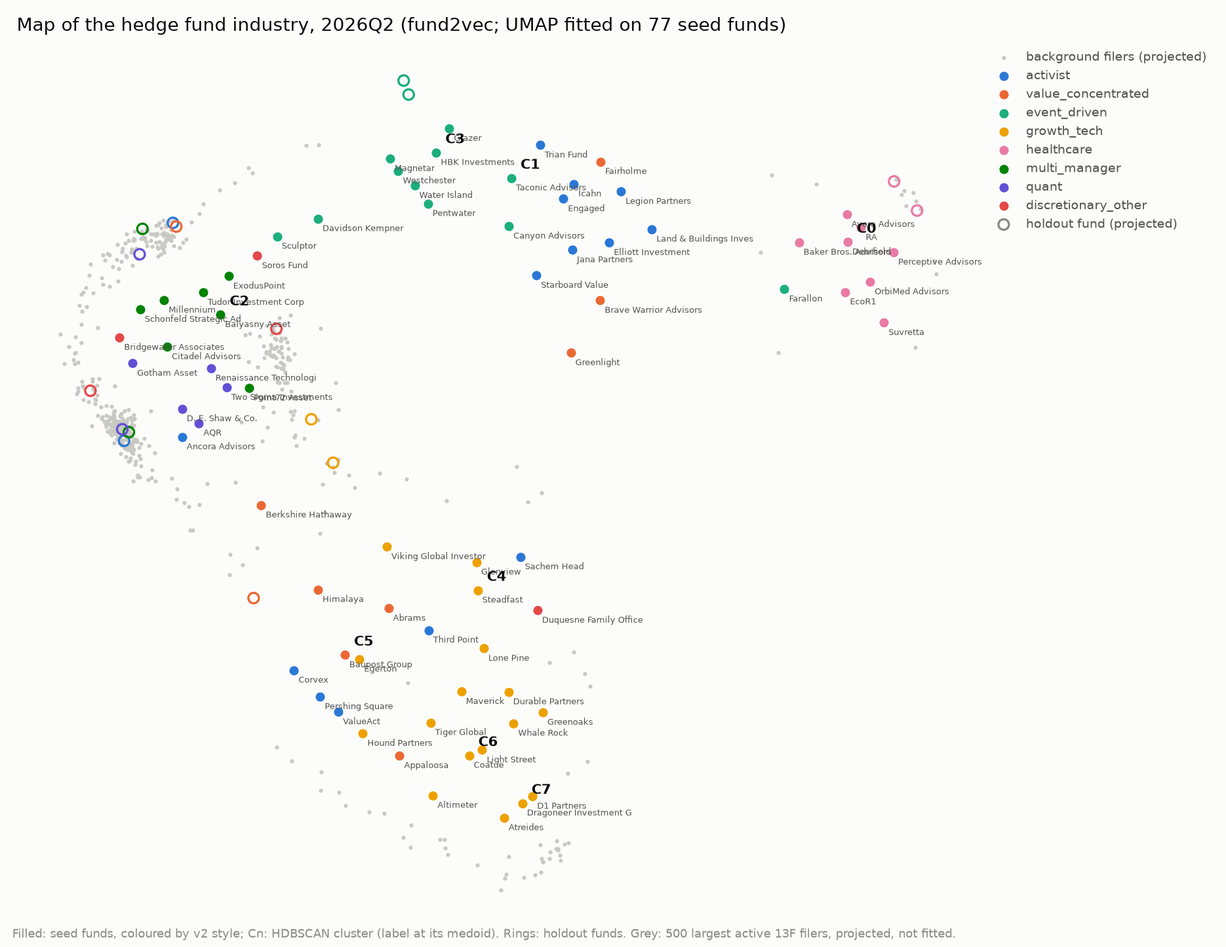
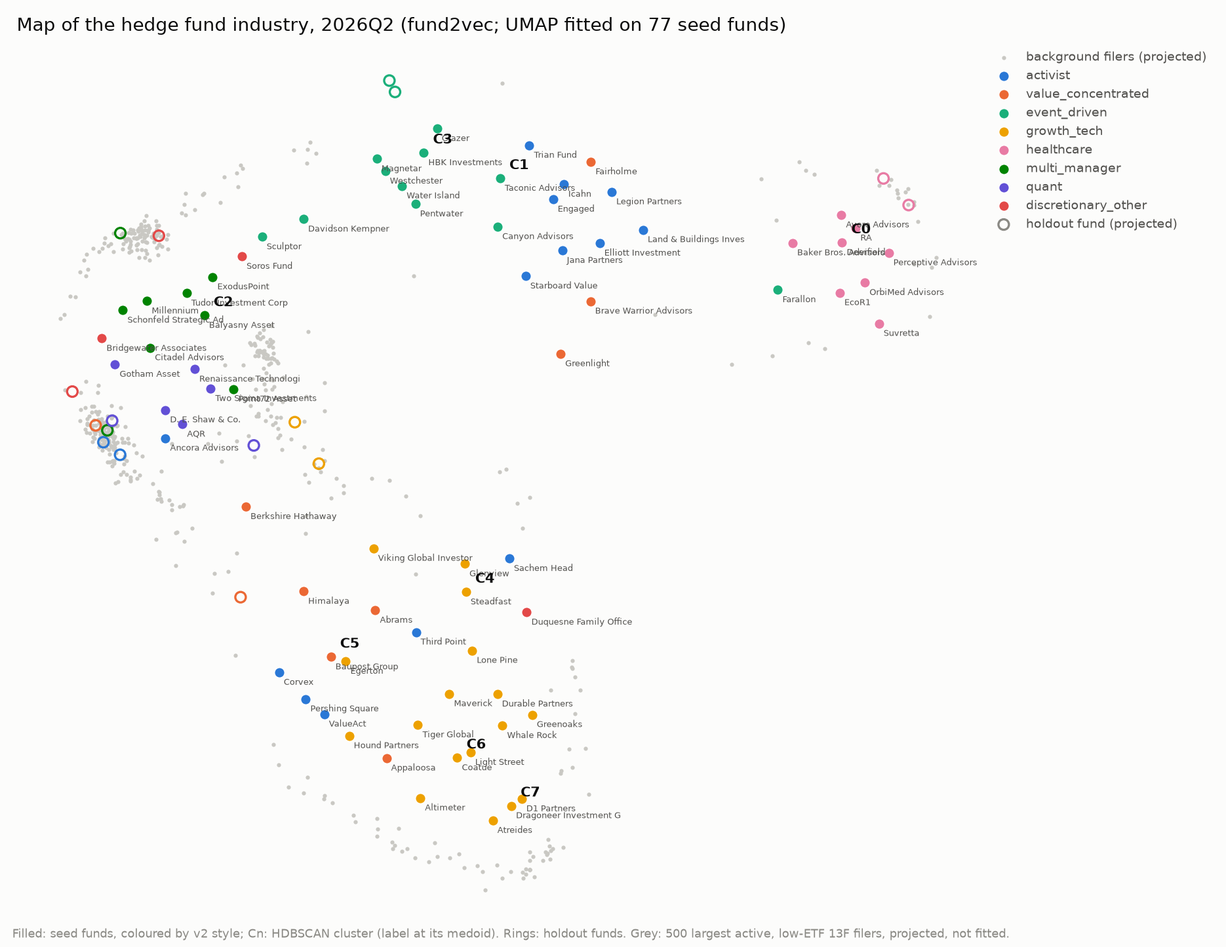
Milestone 5 follow-up: ETF-share cap on background filers, crowding-floor sensitivity
- background screen also requires <= 25% of the book in ETFs/funds (seed funds'
  90th-95th percentile); map redrawn, seed clusters unchanged
- crowding results at 0.5% / 1% / 2% conviction floors (1% stays the main one)
- tests for the cap and the floor; decisions log

diff --git a/src/models/crowding.py b/src/models/crowding.py
@@ -44,7 +44,10 @@ next filing) for positions in its own cluster's crowded names vs its other
 positions of at least the same CROWD_MIN_WEIGHT (big positions behave differently
 from small ones, so both groups are big).
 
-Writes `crowding_stocks`, `crowding_clusters`, `cluster_overlap`, figures 16-17,
+Sensitivity: the episode results are recomputed with the conviction floor at
+each of SENSITIVITY_FLOORS (the 1% floor stays the main one).
+
+Writes `crowding_stocks`, `crowding_clusters`, `cluster_overlap`, `crowding_sensitivity`, figures 16-17,
 docs/crowding.md.
 """
 
@@ -69,6 +72,7 @@ EPISODES = {
 }
 CROWD_MIN, CROWD_SHARE = 3, 0.5
 CROWD_MIN_WEIGHT = 0.01
+SENSITIVITY_FLOORS = [0.005, 0.01, 0.02]
 REPORT = Path("docs/crowding.md")
 CROWDED, WIDE, FEW = "crowded in a cluster", "widely held, not crowded", "0-2 conviction holders"
 
@@ -89,10 +93,11 @@ def seed_books(books: pl.DataFrame, quarter: str, funds: list[str]) -> pl.DataFr
 
 # --- per stock -----------------------------------------------------------------------
 
-def crowding_measures(book: pl.DataFrame, clusters: dict[str, int]) -> pl.DataFrame:
+def crowding_measures(book: pl.DataFrame, clusters: dict[str, int],
+                      min_weight: float = CROWD_MIN_WEIGHT) -> pl.DataFrame:
     """issuer_key -> n_holders, max_cluster_n, top_cluster, cluster_pairs, crowded."""
     size = pl.DataFrame({"cluster": list(clusters.values())}).group_by("cluster").len("cluster_size")
-    b = (book.filter(pl.col("w") >= CROWD_MIN_WEIGHT)
+    b = (book.filter(pl.col("w") >= min_weight)
          .with_columns(pl.col("fund_id").replace_strict(clusters, return_dtype=pl.Int64).alias("cluster")))
     per = (b.filter(pl.col("cluster") >= 0).group_by("issuer_key", "cluster").agg(pl.col("fund_id").n_unique().alias("n_c"))
            .join(size, on="cluster")
@@ -162,6 +167,19 @@ def regression(df: pl.DataFrame) -> pl.DataFrame:
     b, t, r2 = ols_newey_west(d["ret"].to_numpy(), X, lags=0)
     return pl.DataFrame({"term": ["intercept", *names], "coef": b, "t": t}).with_columns(
         pl.lit(d.height).alias("n"), pl.lit(r2).alias("r2"))
+
+
+def sensitivity_row(ep: str, floor: float, book: pl.DataFrame, clusters: dict[str, int],
+                    rets: pl.DataFrame) -> dict:
+    st = size_adjust(rets.join(crowding_measures(book, clusters, floor), on="issuer_key", how="inner").drop_nulls("ret"))
+    crowded = st.filter(pl.col("crowded"))
+    reg = regression(st)
+    coef = reg.filter(pl.col("term") == "crowded")
+    return {"episode": ep, "floor": f"{floor:.1%}", "n_crowded": crowded.height,
+            "n_widely_held": st.filter(pl.col("bucket") == WIDE).height,
+            "crowded_mean_ret": crowded["ret"].mean(), "crowded_mean_ret_adj": crowded["ret_adj"].mean(),
+            "crowded_median_ret_adj": crowded["ret_adj"].median(),
+            "reg_crowded": coef["coef"][0], "t_crowded": coef["t"][0]}
 
 
 # --- overlap -------------------------------------------------------------------------
@@ -304,12 +322,13 @@ def main() -> None:
     names = dict(con.execute("SELECT fund_id, any_value(fund_name) FROM positions GROUP BY 1").fetchall())
     names |= emb.issuer_names(con)
 
-    stock_rows, cluster_rows, sections, per_cluster = [], [], [], {}
+    stock_rows, cluster_rows, sections, per_cluster, sens = [], [], [], {}, []
     for ep, cfg in EPISODES.items():
         c = clusters_at(con, method, cfg["book"])
         book = seed_books(books, cfg["book"], list(c))
-        cm = crowding_measures(book, c)
         rets = episode_returns(con, cfg["book"], cfg["ret_quarters"])
+        sens += [sensitivity_row(ep, f, book, c, rets) for f in SENSITIVITY_FLOORS]
+        cm = crowding_measures(book, c)
         st = size_adjust(rets.join(cm, on="issuer_key", how="inner").drop_nulls("ret"))
         pc = cluster_episode(book, c, st, names)
         per_cluster[ep] = pc
@@ -349,9 +368,12 @@ Members: {"; ".join(f"**{r['cluster']}** {r['funds']}" for r in pc.iter_rows(nam
 """)
         print(ep, buckets, reg, ex, sep="\n")
 
+    sens = pl.DataFrame(sens)
+    print(sens)
     ov = overlap_by_quarter(con, books, method)
     stocks, clusters_df = pl.concat(stock_rows, how="diagonal"), pl.concat(cluster_rows)
-    for name, df in [("crowding_stocks", stocks), ("crowding_clusters", clusters_df), ("cluster_overlap", ov)]:
+    for name, df in [("crowding_stocks", stocks), ("crowding_clusters", clusters_df), ("cluster_overlap", ov),
+                     ("crowding_sensitivity", sens)]:
         con.register("df", df.to_arrow())
         con.execute(f"CREATE OR REPLACE TABLE {name} AS SELECT * FROM df")
         con.unregister("df")
@@ -368,6 +390,10 @@ start at the book's quarter end; `ret_adj` subtracts the median return of the
 stock's size quintile.
 
 ![episodes](figures/16_crowding_episodes.png)
+
+## Sensitivity to the conviction floor (main: {CROWD_MIN_WEIGHT:.0%})
+
+{cl.md(sens)}
 
 ## Overlap through time
 

diff --git a/src/features/embeddings.py b/src/features/embeddings.py
@@ -37,8 +37,13 @@ only q-1's (already aligned) frame.
 Background: for 2025Q3+ the SEC bulk data has every filer. The BACKGROUND_N
 largest long books with active share >= BG_MIN_ACTIVE_SHARE (vs the seed
 benchmark; the seed funds' 10th percentile is ~0.71) are projected for the map.
-The active-share screen removes the banks, index and wealth managers that top a
-pure size ranking.
+The active-share screen removes the banks and index managers that top a pure
+size ranking. It does not remove wealth platforms: their ETFs and funds aren't in
+the stock benchmark, so an ETF-heavy book looks "active". A second screen drops
+books with more than BG_MAX_ETF_SHARE in ETFs, closed-end and mutual funds
+(`security_master.security_type2 = 'Mutual Fund'`). Seed funds hold ETFs too,
+mostly as hedges (2025Q3+: median 3%, 90th percentile 21%, 95th 27%), so the cap
+sits inside the seed range rather than at zero.
 
 Writes `fund_embeddings`, `nmf_themes`, `embedding_drift`.
 """
@@ -63,6 +68,7 @@ ASOF_DAYS = 60
 BACKGROUND_N = 500
 BG_MIN_ACTIVE_SHARE = 0.7
 BG_MIN_LONG_VALUE = 1e8
+BG_MAX_ETF_SHARE = 0.25
 BG_FIRST_QUARTER = "2025Q3"
 SEED = 0
 
@@ -116,15 +122,18 @@ def background_books(con) -> pl.DataFrame:
         keymap AS (SELECT cusip, any_value({ISSUER_KEY}) AS issuer_key FROM positions GROUP BY cusip),
         h AS (
             SELECT o.cik, any_value(o.quarter) AS quarter, any_value(o.known_at) AS known_at,
-                   coalesce(k.issuer_key, h.cusip) AS issuer_key, sum(h.value_usd) AS v
+                   coalesce(k.issuer_key, h.cusip) AS issuer_key, sum(h.value_usd) AS v,
+                   coalesce(sum(h.value_usd) FILTER (WHERE m.security_type2 = 'Mutual Fund'), 0) AS v_fund
             FROM orig o JOIN filings_db.holdings h USING (accession_number)
             LEFT JOIN keymap k ON k.cusip = h.cusip
+            LEFT JOIN security_master m ON m.cusip = h.cusip
             WHERE o.rk = 1 AND (h.put_call IS NULL OR h.put_call = '') AND h.value_usd > 0
               AND o.cik NOT IN (SELECT cik FROM own)
             GROUP BY o.cik, o.quarter, coalesce(k.issuer_key, h.cusip)
         )
-        SELECT *, v / sum(v) OVER (PARTITION BY cik, quarter) AS w,
-               sum(v) OVER (PARTITION BY cik, quarter) AS long_value
+        SELECT * EXCLUDE (v_fund), v / sum(v) OVER (PARTITION BY cik, quarter) AS w,
+               sum(v) OVER (PARTITION BY cik, quarter) AS long_value,
+               sum(v_fund) OVER (PARTITION BY cik, quarter) / sum(v) OVER (PARTITION BY cik, quarter) AS etf_share
         FROM h
     """)
     return con.execute(f"""
@@ -142,8 +151,9 @@ def background_books(con) -> pl.DataFrame:
         pick AS (
             SELECT a.cik, a.quarter, a.active_share,
                    row_number() OVER (PARTITION BY a.quarter ORDER BY v.long_value DESC) AS rk
-            FROM act a JOIN (SELECT DISTINCT cik, quarter, long_value FROM bg_w) v USING (cik, quarter)
+            FROM act a JOIN (SELECT DISTINCT cik, quarter, long_value, etf_share FROM bg_w) v USING (cik, quarter)
             WHERE a.active_share >= {BG_MIN_ACTIVE_SHARE} AND v.long_value >= {BG_MIN_LONG_VALUE}
+              AND v.etf_share <= {BG_MAX_ETF_SHARE}
         )
         SELECT 'bg_' || w.cik::VARCHAR AS fund_id, 'background' AS cohort, w.quarter, w.known_at,
                w.issuer_key, w.w

diff --git a/tests/test_embeddings.py b/tests/test_embeddings.py
@@ -190,3 +190,35 @@ def test_crowding_tables(m5):
     assert scalar(m5, "SELECT count(*) FROM crowding_stocks WHERE cusip IS NULL OR ret IS NULL") == 0
     assert scalar(m5, "SELECT count(DISTINCT episode) FROM crowding_stocks") == len(cr.EPISODES)
     assert scalar(m5, "SELECT count(*) FROM cluster_overlap WHERE within < 0 OR within > 1 OR across > within") == 0
+
+
+def test_background_filers_pass_the_etf_cap(m5):
+    from src.securities.db import FILINGS_DB_PATH
+
+    m5.execute(f"ATTACH IF NOT EXISTS '{FILINGS_DB_PATH}' AS filings_db (READ_ONLY)")
+    bg = emb.background_books(m5)
+    assert bg.group_by("quarter").agg(pl.col("fund_id").n_unique())["fund_id"].max() <= emb.BACKGROUND_N
+    # a filer can pass the screen in one quarter and fail it in another: match on both
+    shares = m5.execute("""SELECT max(w.etf_share) FROM bg_w w
+                           JOIN (SELECT DISTINCT fund_id, quarter FROM fund_embeddings WHERE cohort = 'background') e
+                             ON e.fund_id = 'bg_' || w.cik::VARCHAR AND e.quarter = w.quarter""").fetchone()[0]
+    assert shares <= emb.BG_MAX_ETF_SHARE
+
+
+def test_crowding_floor_raises_the_bar():
+    """A higher conviction floor can only remove holders, never add crowded names."""
+    clusters = {"f1": 0, "f2": 0, "f3": 0}
+    book = pl.DataFrame({"fund_id": ["f1", "f2", "f3"], "issuer_key": ["A"] * 3, "w": [0.006, 0.015, 0.03]})
+    n = [cr.crowding_measures(book, clusters, f)["n_holders"][0] for f in [0.005, 0.01, 0.02]]
+    assert n == [3, 2, 1]
+    assert cr.crowding_measures(book, clusters, 0.005)["crowded"][0]
+    assert not cr.crowding_measures(book, clusters, 0.01)["crowded"][0]
+
+
+def test_crowding_sensitivity_table(m5):
+    if not table_exists(m5, "crowding_sensitivity"):
+        pytest.skip("run src.models.crowding")
+    df = m5.execute("SELECT episode, floor, n_crowded FROM crowding_sensitivity ORDER BY episode, floor").pl()
+    assert df.height == len(cr.EPISODES) * len(cr.SENSITIVITY_FLOORS)
+    for _, g in df.group_by("episode"):
+        assert g.sort("floor")["n_crowded"].to_list() == sorted(g["n_crowded"], reverse=True)

diff --git a/src/models/clustering.py b/src/models/clustering.py
@@ -269,7 +269,7 @@ def plot_map(con, books, method: str, path: Path) -> pl.DataFrame:
     ax.set_title(f"Map of the hedge fund industry, {q} ({method}; UMAP fitted on 77 seed funds)",
                  loc="left", fontsize=12, color=INK)
     fig.text(0.01, 0.01, "Filled: seed funds, coloured by v2 style; Cn: HDBSCAN cluster (label at its medoid). "
-             "Rings: holdout funds. Grey: 500 largest active 13F filers, projected, not fitted.",
+             "Rings: holdout funds. Grey: 500 largest active, low-ETF 13F filers, projected, not fitted.",
              fontsize=7.5, color=MUTED)
     fig.tight_layout()
     fig.savefig(path, dpi=170, facecolor=SURFACE)
@@ -494,8 +494,8 @@ per quarter just because the basis rotates; aligned, the move is the fund's own.
 
 {md(ctab)}
 
-Background filers on the map (active share >= {emb.BG_MIN_ACTIVE_SHARE}, long book >= $100M,
-largest {emb.BACKGROUND_N} per quarter, projected; median share of their book inside the seed vocabulary):
+Background filers on the map (active share >= {emb.BG_MIN_ACTIVE_SHARE}, ETFs and funds <= {emb.BG_MAX_ETF_SHARE:.0%}
+of the book, long book >= $100M, largest {emb.BACKGROUND_N} per quarter, projected; median share of their book inside the seed vocabulary):
 
 {md(bg)}
 

diff --git a/docs/embeddings_clustering.md b/docs/embeddings_clustering.md
@@ -58,39 +58,39 @@ per quarter just because the basis rotates; aligned, the move is the fund's own.
 
 | cluster | n | styles | funds | most shared names (holders) |
 |---|---|---|---|---|
-| noise | 22 | activist 9, value_concentrated 6, growth_tech 5, discretionary_other 1, event_driven 1 | Abrams Capital, Berkshire Hathaway, Brave Warrior Advisors, Corvex, Duquesne Family Office, Durable Capital Partners, Elliott Investment, Engaged Capital, Fairholme Capital, Glenview Capital, Greenlight Capital, Greenoaks Capital, Himalaya Capital, Hound Partners, Jana Partners, Land & Buildings Investment, Legion Partners, Magnetar Capital, Starboard Value, Trian Fund, ValueAct Capital, Viking Global Investors | AMZN (9), META (8), GOOGL (5), MSFT (5), CVNA (4) |
+| noise | 22 | activist 9, value_concentrated 6, growth_tech 5, event_driven 1, discretionary_other 1 | Abrams Capital, Berkshire Hathaway, Brave Warrior Advisors, Corvex, Duquesne Family Office, Durable Capital Partners, Elliott Investment, Engaged Capital, Fairholme Capital, Glenview Capital, Greenlight Capital, Greenoaks Capital, Himalaya Capital, Hound Partners, Jana Partners, Land & Buildings Investment, Legion Partners, Magnetar Capital, Starboard Value, Trian Fund, ValueAct Capital, Viking Global Investors | AMZN (9), META (8), GOOGL (5), MSFT (5), CVNA (4) |
 | C0 | 9 | healthcare 8, event_driven 1 | Avoro Capital Advisors, Baker Bros. Advisors, Deerfield, EcoR1 Capital, Farallon Capital, OrbiMed Advisors, Perceptive Advisors, RA Capital, Suvretta Capital | RVMD (6), SION (5), BSX (5), TSHA (5), AVTX (5) |
 | C1 | 3 | event_driven 2, activist 1 | Canyon Capital Advisors, Icahn Capital, Taconic Capital Advisors | CBL (2), ECHO (2), AZUL (2), IEP (1), VTOL (1) |
-| C2 | 17 | multi_manager 7, quant 5, discretionary_other 2, event_driven 2, activist 1 | AQR Capital, Ancora Advisors, Balyasny Asset, Bridgewater Associates, Citadel Advisors, D. E. Shaw & Co., Davidson Kempner Capital, ExodusPoint Capital, Gotham Asset, Millennium, Point72 Asset, Renaissance Technologies, Schonfeld Strategic Advisors, Sculptor Capital, Soros Fund, Tudor Investment Corp, Two Sigma Investments | NVDA (17), AMZN (17), META (17), GOOGL (16), MSFT (16) |
+| C2 | 17 | multi_manager 7, quant 5, event_driven 2, discretionary_other 2, activist 1 | AQR Capital, Ancora Advisors, Balyasny Asset, Bridgewater Associates, Citadel Advisors, D. E. Shaw & Co., Davidson Kempner Capital, ExodusPoint Capital, Gotham Asset, Millennium, Point72 Asset, Renaissance Technologies, Schonfeld Strategic Advisors, Sculptor Capital, Soros Fund, Tudor Investment Corp, Two Sigma Investments | NVDA (17), AMZN (17), META (17), GOOGL (16), MSFT (16) |
 | C3 | 5 | event_driven 5 | Glazer Capital, HBK Investments, Pentwater Capital, Water Island Capital, Westchester Capital | EA (5), WBD (5), APGE (5), ROKU (5), TECH (5) |
 | C4 | 4 | growth_tech 2, activist 2 | Lone Pine Capital, Sachem Head Capital, Steadfast Capital, Third Point | PFGC (4), CVNA (3), GOOGL (3), HUT (3), TSM (3) |
-| C5 | 3 | activist 1, growth_tech 1, value_concentrated 1 | Baupost Group, Egerton Capital, Pershing Square Capital | AMZN (3), V (3), GOOGL (2), QSR (2), UBER (2) |
+| C5 | 3 | growth_tech 1, activist 1, value_concentrated 1 | Baupost Group, Egerton Capital, Pershing Square Capital | AMZN (3), V (3), GOOGL (2), QSR (2), UBER (2) |
 | C6 | 7 | growth_tech 6, value_concentrated 1 | Altimeter Capital, Appaloosa, Coatue, Light Street Capital, Maverick Capital, Tiger Global, Whale Rock Capital | TSM (7), AMZN (7), NVDA (7), GOOGL (7), META (6) |
 | C7 | 3 | growth_tech 3 | Atreides, D1 Capital Partners, Dragoneer Investment Group | SPCX (3), AMZN (3), CBRS (3), INIO (2), NU (2) |
 
-Background filers on the map (active share >= 0.7, long book >= $100M,
-largest 500 per quarter, projected; median share of their book inside the seed vocabulary):
+Background filers on the map (active share >= 0.7, ETFs and funds <= 25%
+of the book, long book >= $100M, largest 500 per quarter, projected; median share of their book inside the seed vocabulary):
 
 | quarter | n | median_coverage |
 |---|---|---|
-| 2025Q3 | 500 | 0.95 |
-| 2025Q4 | 500 | 0.95 |
-| 2026Q1 | 500 | 0.95 |
-| 2026Q2 | 500 | 0.94 |
+| 2025Q3 | 500 | 0.98 |
+| 2025Q4 | 500 | 0.98 |
+| 2026Q1 | 500 | 0.98 |
+| 2026Q2 | 500 | 0.98 |
 
 Nearest seed fund's cluster for each mapped background filer (cosine in `fund2vec` space;
 `largest` = the four largest filers by long 13F value):
 
 | cluster | n_background | median_cos | largest |
 |---|---|---|---|
-| C2 | 386 | 0.94 | LPL Financial LLC, ENVESTNET ASSET MANAGEMENT I, JONES FINANCIAL COMPANIES LL, Dodge & Cox |
-| C7 | 22 | 0.98 | Alphabet Inc., Valor Management LLC, BAMCO INC /NY/, NVIDIA CORP |
-| C6 | 18 | 0.78 | BAILLIE GIFFORD & CO, EAGLE CAPITAL MANAGEMENT LLC, Situational Awareness LP, Value Aligned Research Advis |
-| C5 | 18 | 0.78 | TCI FUND MANAGEMENT LTD,  MASTERCARD FOUNDATION ASSET, PineStone Asset Management I, Soroban Capital Partners LP |
-| noise | 16 | 0.79 | ALPS ADVISORS INC, H&H International Investment, APG Asset Management US Inc., CENTERSQUARE INVESTMENT MANA |
-| C0 | 15 | 0.87 |  LILLY ENDOWMENT INC, Evelyn Partners Group Ltd, INVESTOR AB, RTW INVESTMENTS, LP |
-| C4 | 6 | 0.71 | WCM INVESTMENT MANAGEMENT, L, Rubric Capital Management LP, Carlyle Group Inc., PointState Capital LP |
-| C3 | 3 | 0.76 | TENOR CAPITAL MANAGEMENT Co., WHITEBOX ADVISORS LLC, Polar Asset Management Partn |
+| C2 | 338 | 0.91 | Dodge & Cox, VAN ECK ASSOCIATES CORP, STATE FARM MUTUAL AUTOMOBILE, Boston Partners |
+| C6 | 33 | 0.79 | BAILLIE GIFFORD & CO, EAGLE CAPITAL MANAGEMENT LLC, Situational Awareness LP, Value Aligned Research Advis |
+| C7 | 29 | 0.98 | Alphabet Inc., Valor Management LLC, BAMCO INC /NY/, NVIDIA CORP |
+| C0 | 27 | 0.87 |  LILLY ENDOWMENT INC, Evelyn Partners Group Ltd, INVESTOR AB, RTW INVESTMENTS, LP |
+| noise | 25 | 0.80 | ALPS ADVISORS INC, H&H International Investment, APG Asset Management US Inc., CENTERSQUARE INVESTMENT MANA |
+| C5 | 23 | 0.77 | TCI FUND MANAGEMENT LTD,  MASTERCARD FOUNDATION ASSET, PineStone Asset Management I, Soroban Capital Partners LP |
+| C4 | 12 | 0.74 | WCM INVESTMENT MANAGEMENT, L, Rubric Capital Management LP, Carlyle Group Inc., PointState Capital LP |
+| C3 | 6 | 0.75 | TENOR CAPITAL MANAGEMENT Co., WHITEBOX ADVISORS LLC, Polar Asset Management Partn, HIGHBRIDGE CAPITAL MANAGEMEN |
 
 ## Method comparison and metrics over time
 

diff --git a/docs/fund_map.md b/docs/fund_map.md
@@ -14,14 +14,15 @@ The fund2vec map for 2026Q2 recovers the industry's main structure from holdings
   (C3: Glazer, HBK, Pentwater, Water Island, Westchester; every one of the five holds EA,
   WBD, ROKU and TECH, all pending deals) are the clearest clusters in every quarter.
   Their nearest outsiders among the background filers also make sense: RTW near
-  healthcare, and Tenor, Whitebox and Polar near merger arb.
+  healthcare, and Tenor, Whitebox, Polar and Highbridge near merger arb.
 - **The Tiger family splits in two.** C6 (Coatue, Tiger Global, Altimeter, Whale Rock,
   Light Street, Maverick, plus Appaloosa) all hold TSM, AMZN, NVDA and GOOGL. C7 (D1,
   Dragoneer, Atreides) is set apart by private-to-public stakes. Baillie Gifford and
   Situational Awareness are their nearest outside neighbours.
 - **Multi-managers and quants are one cluster (C2, 17 funds).** Their books are broad and
   close to the market, so holdings can't tell Millennium from Two Sigma. That is a limit
-  of 13F data, not of the method, and it is where ~390 of the 500 background filers land.
+  of 13F data, not of the method. It is also where 338 of the 500 background filers land,
+  mostly diversified long-only managers (Dodge & Cox, Boston Partners, State Farm).
 - **Activists and concentrated value funds are mostly noise** (22 of 73 funds in 2026Q2).
   This is correct rather than a failure: a 10-stock activist book shares almost nothing
   with any other fund. HDBSCAN says so, where k-means would force each one into a group.
@@ -56,6 +57,28 @@ genuine out-of-sample check:
 **Definition.** A name is **crowded** if at least 3 funds of one cluster, and at least half
 of the cluster's members, each hold it at ≥1% of their book. The 1% floor matters: without
 it, the multi-manager cluster "crowds" 1,700 names it holds at 0.05% each.
+
+**Sensitivity to the floor.** The 1% floor is the main one; 0.5% and 2% are shown for
+comparison. "vs size" = mean return minus the median of the stock's size quintile; the
+regression coefficient on `crowded` controls for log(1 + holders), size, beta and momentum.
+
+| episode | floor | crowded names | crowded return | vs size, mean | vs size, median | regression | t |
+|---|---|---|---|---|---|---|---|
+| COVID | 0.5% | 20 | −11% | +16% | +25% | +13% | 1.8 |
+| COVID | **1%** | **13** | **−7%** | **+20%** | **+25%** | **+11%** | **1.5** |
+| COVID | 2% | 9 | −13% | +16% | +24% | +9% | 1.0 |
+| growth unwind | 0.5% | 25 | −30% | −11% | −3% | −15% | −1.9 |
+| growth unwind | **1%** | **18** | **−38%** | **−20%** | **−28%** | **−23%** | **−2.6** |
+| growth unwind | 2% | 7 | −47% | −29% | −36% | −13% | −1.3 |
+
+- **The sign holds at every floor.** Crowded names did better than size peers in COVID and
+  worse in the growth unwind.
+- **A higher floor isolates the deeper losses in the unwind.** Raising the floor leaves fewer,
+  more concentrated names, and their losses get deeper (−11% → −20% → −29% vs size).
+- **Significance is highest at 1%.** With only 7 names at 2%, the regression loses power
+  (t = −1.3). At 0.5%, broader names that held up dilute the effect.
+- **Conclusion:** the direction doesn't depend on the floor; the significance does, and is
+  strongest at the 1% chosen in advance.
 
 **COVID crash (2019Q4 books, 2020Q1 returns): crowding didn't hurt.**
 - Only 13 names were crowded. They beat stocks of the same size by about +20% (mean);
@@ -96,9 +119,11 @@ sample is now, in 2025–2026, driven by AI mega-caps.
   clusters are underdescribed and nobody's hedges show.
 - **Returns start at quarter end,** not the filing date. This is a description of the funds'
   actual exposure, not a tradable signal; that test is Task D.
-- **The background screen is imperfect.** Selecting by active share still admits wealth
-  platforms whose ETF holdings count as "active" against a stock benchmark (e.g. LPL,
-  Envestnet). They only affect the grey points.
+- **Background screen.** Background filers must have active share ≥ 0.7 and at most 25% of
+  their book in ETFs and funds. The ETF cap removes wealth platforms (e.g. LPL, Envestnet)
+  whose ETFs looked "active" against a stock benchmark. 25% sits between the seed funds'
+  own 90th and 95th percentiles (they hold ETFs as hedges). The background is display-only:
+  the seed clusters and metrics are identical with or without it.
 
 ## What this feeds next
 

diff --git a/docs/decisions.md b/docs/decisions.md
@@ -365,7 +365,13 @@ Reports: `docs/embeddings_clustering.md`, `docs/crowding.md`, reading in `docs/f
 - **Centring.** SVD and fund2vec fund vectors are centred on the seed mean before normalising (otherwise the "average fund" direction makes every pair similar). NMF theme mixes are not centred.
 - **fund2vec corpus.** Per quarter, the last 4 quarters of seed books filed by asof(q); 10 sentences of 40 tokens per book, drawn with probability = weight; vocabulary = issuers in ≥ 2 seed funds; `workers=1` for reproducibility.
 - **HDBSCAN** with min_cluster_size 3, min_samples 2, chosen a priori for 77 funds and not tuned. Noise is reported per method (fund2vec 26–28%, cosine 46–51%, SVD 15%, NMF 9%) and counted as singletons in every ARI, so labelling everything noise can't look stable. k-means (k = 8) is reported as a comparison and is worse on stability for every method.
-- **Background filers:** the 500 largest long books per quarter for 2025Q3–2026Q2 with active share ≥ 0.7 (the seed 10th percentile is ~0.71) and ≥ $100M, from the bulk 13F data already on disk (no download). **Known flaw:** ETF-heavy wealth platforms pass the active-share screen because ETFs aren't in the stock benchmark; ~390 of 500 sit next to the multi-manager/quant cluster. They are display-only.
+- **Background filers:** the 500 largest long books per quarter for 2025Q3–2026Q2 with active share ≥ 0.7 (the seed 10th percentile is ~0.71) and ≥ $100M, from the bulk 13F data already on disk (no download). Display-only. See the follow-up entry for the ETF-share cap added after the first run.
 - **Crowding uses conviction holders (≥ 1% of the book).** Without the floor, the 17-fund multi-manager/quant cluster "crowds" ~1,700 names held at 0.05%. Crowded = ≥ 3 funds and ≥ 50% of one cluster. Returns are size-quintile adjusted, plus a regression on crowded, log(1 + holders), log size, beta and momentum, so crowding isn't confused with popularity or growth exposure. Delisted names earn the delisting return, then cash.
 - **Episodes:** COVID = 2019Q4 books (filed before the crash), 2020Q1 returns; growth unwind = 2021Q3 books, returns 2021Q4–2022Q2. Both books fall inside the selection window.
 - **Results in one line:** fund2vec clusters held up after 2023 (purity 0.74 vs 0.35 shuffled, stability 0.76). Crowded names did fine in COVID (+11% vs controls, t = 1.5) and badly in the growth unwind (−23%, t = −2.6). Within-cluster overlap was not unusually high going into either episode.
+
+## 2026-10-16: Milestone 5 follow-up — ETF-share cap on background filers, crowding-floor sensitivity
+
+- **ETF cap (owner's request).** Background filers now also need ≤ 25% of their long 13F value in ETFs, closed-end and mutual funds (`security_master.security_type2 = 'Mutual Fund'`, which covers 99.7% of 2026Q2 13F value). Why 25% and not 0: seed funds hold ETFs too, mostly as hedges (2025Q3+: median 3%, 90th percentile 21%, 95th 27%), so a zero cap would screen out books that look like seed funds. The cap binds: the median ≥ $100M filer is 35% ETFs and funds.
+- **Effect.** The filers nearest the multi-manager/quant cluster fall from 386 to 338, and their largest are now diversified long-only active managers (Dodge & Cox, Boston Partners, State Farm) instead of wealth platforms (LPL, Envestnet). The specialist neighbourhoods grow: healthcare 15 → 27, Tiger growth 18 → 33, merger arb 3 → 6. **Seed and holdout embeddings and every cluster assignment are identical** (checked against a snapshot); the background is projected, never fitted.
+- **Crowding floor kept at 1%; sensitivity at 0.5% and 2%** (`crowding_sensitivity`, `docs/fund_map.md`). The sign holds at every floor: crowded names beat size peers in COVID and lagged them in the growth unwind. Significance is highest at the pre-chosen 1% (growth unwind t = −2.6, vs −1.9 at 0.5% and −1.3 at 2% with only 7 names). The 1% floor was not chosen because it gave the best t; it was set before this table existed.

diff --git a/docs/crowding.md b/docs/crowding.md
@@ -8,6 +8,17 @@ stock's size quintile.
 
 ![episodes](figures/16_crowding_episodes.png)
 
+## Sensitivity to the conviction floor (main: 1%)
+
+| episode | floor | n_crowded | n_widely_held | crowded_mean_ret | crowded_mean_ret_adj | crowded_median_ret_adj | reg_crowded | t_crowded |
+|---|---|---|---|---|---|---|---|---|
+| covid | 0.5% | 20 | 171 | -0.14 | 0.16 | 0.25 | 0.13 | 1.79 |
+| covid | 1.0% | 13 | 92 | -0.07 | 0.20 | 0.25 | 0.11 | 1.53 |
+| covid | 2.0% | 9 | 51 | -0.10 | 0.16 | 0.24 | 0.09 | 0.97 |
+| growth | 0.5% | 25 | 160 | -0.29 | -0.11 | -0.03 | -0.15 | -1.90 |
+| growth | 1.0% | 18 | 92 | -0.38 | -0.20 | -0.28 | -0.23 | -2.55 |
+| growth | 2.0% | 7 | 50 | -0.45 | -0.29 | -0.36 | -0.13 | -1.34 |
+
 ## Overlap through time
 
 ![overlap](figures/17_cluster_overlap.png)
@@ -65,9 +76,9 @@ covid (2019Q4) 62%, growth (2021Q3) 76%.
 |---|---|---|---|---|---|---|---|---|---|
 | C0 | 3 | activist 2, value_concentrated 1 | 0.05 | 0 | 0.00 | None | -0.02 | -0.29 |  |
 | C1 | 8 | healthcare 7, event_driven 1 | 0.09 | 3 | 0.08 | 0.22 | 0.13 | -0.17 | ASND (-19%), ARVN (-2%), IOVA (+8%) |
-| C2 | 5 | activist 3, event_driven 1, discretionary_other 1 | 0.04 | 1 | 0.12 | -0.41 | 0.01 | -0.33 | MGM (-64%) |
-| C3 | 3 | growth_tech 1, discretionary_other 1, activist 1 | 0.23 | 0 | 0.00 | None | 0.11 | -0.18 |  |
-| C4 | 18 | growth_tech 13, event_driven 2, healthcare 1, discretionary_other 1, value_concentrated 1 | 0.17 | 7 | 0.27 | 0.22 | 0.10 | -0.13 | META (-19%), BABA (-8%), AMZN (+6%), MSFT (+0%), NFLX (+16%), CRM (-11%) |
+| C2 | 5 | activist 3, discretionary_other 1, event_driven 1 | 0.04 | 1 | 0.12 | -0.41 | 0.01 | -0.33 | MGM (-64%) |
+| C3 | 3 | discretionary_other 1, activist 1, growth_tech 1 | 0.23 | 0 | 0.00 | None | 0.11 | -0.18 |  |
+| C4 | 18 | growth_tech 13, event_driven 2, healthcare 1, value_concentrated 1, discretionary_other 1 | 0.17 | 7 | 0.27 | 0.22 | 0.10 | -0.13 | META (-19%), BABA (-8%), AMZN (+6%), MSFT (+0%), NFLX (+16%), CRM (-11%) |
 | C5 | 13 | multi_manager 7, quant 5, activist 1 | 0.28 | 0 | 0.00 | None | 0.02 | -0.25 |  |
 | C6 | 7 | event_driven 7 | 0.16 | 2 | 0.05 | 0.32 | 0.13 | -0.16 | 2078185D (-3%), LPT (+5%) |
 
